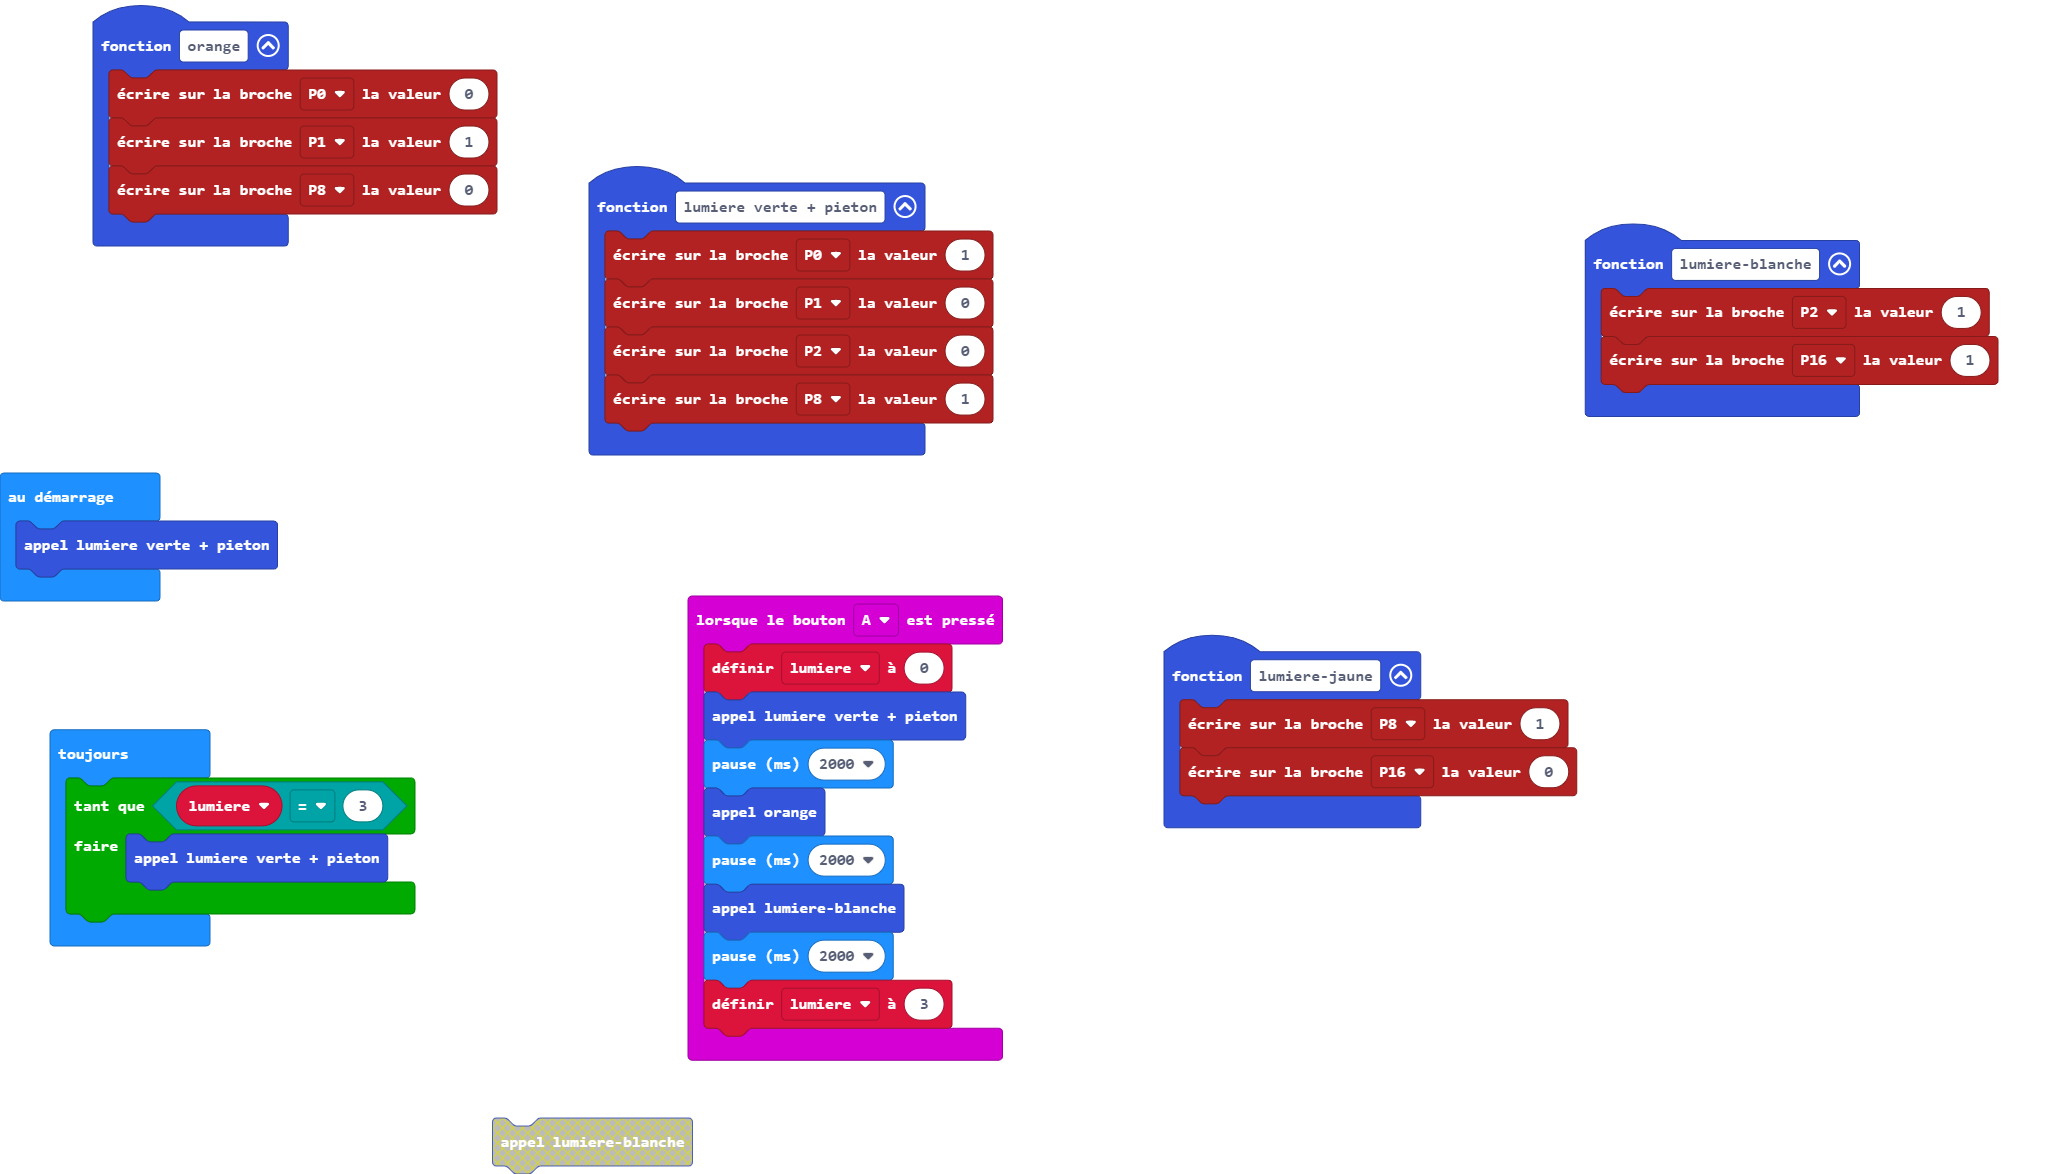
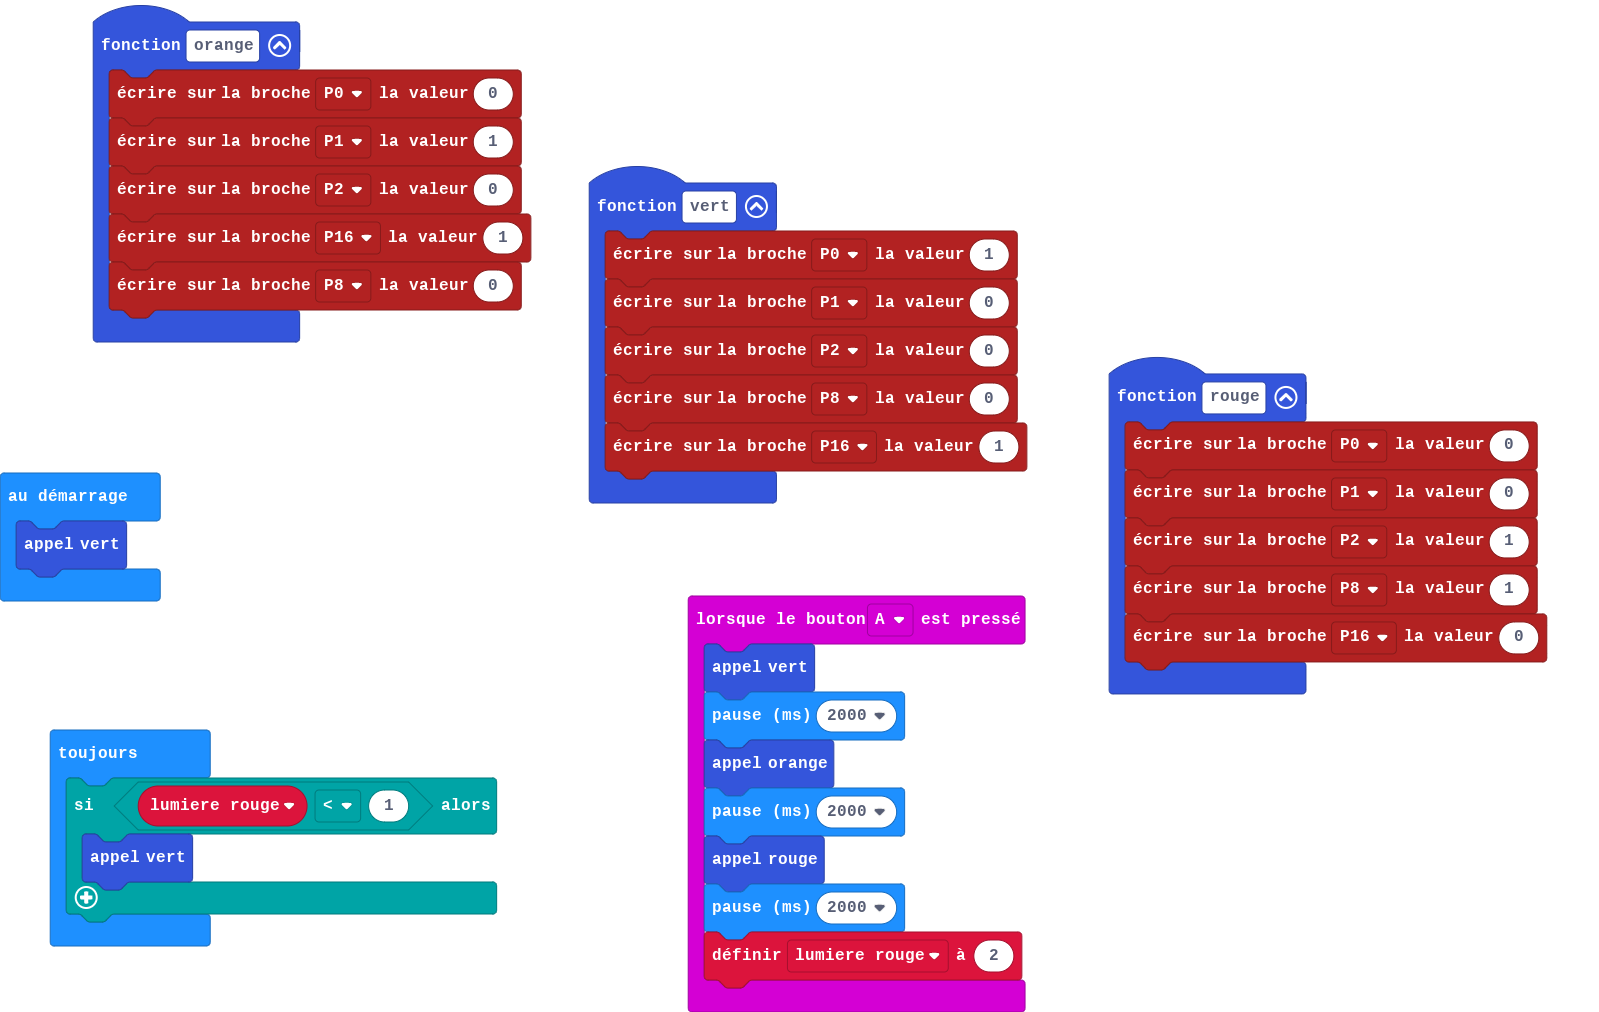
Mise à jour pxt.json, main.blocks, main.ts

diff --git a/main.ts b/main.ts
@@ -1,36 +1,37 @@
-function lumiere_verte__pieton () {
-    pins.digitalWritePin(DigitalPin.P0, 1)
-    pins.digitalWritePin(DigitalPin.P1, 0)
-    pins.digitalWritePin(DigitalPin.P2, 0)
-    pins.digitalWritePin(DigitalPin.P8, 1)
-}
-function lumiereblanche () {
-    pins.digitalWritePin(DigitalPin.P2, 1)
-    pins.digitalWritePin(DigitalPin.P16, 1)
-}
 input.onButtonPressed(Button.A, function () {
-    lumiere = 0
-    lumiere_verte__pieton()
+    vert()
     basic.pause(2000)
     orange()
     basic.pause(2000)
-    lumiereblanche()
+    rouge()
     basic.pause(2000)
-    lumiere = 3
+    lumiere_rouge = 2
 })
 function orange () {
     pins.digitalWritePin(DigitalPin.P0, 0)
     pins.digitalWritePin(DigitalPin.P1, 1)
+    pins.digitalWritePin(DigitalPin.P2, 0)
+    pins.digitalWritePin(DigitalPin.P16, 1)
     pins.digitalWritePin(DigitalPin.P8, 0)
 }
-function lumierejaune () {
+function rouge () {
+    pins.digitalWritePin(DigitalPin.P0, 0)
+    pins.digitalWritePin(DigitalPin.P1, 0)
+    pins.digitalWritePin(DigitalPin.P2, 1)
     pins.digitalWritePin(DigitalPin.P8, 1)
     pins.digitalWritePin(DigitalPin.P16, 0)
 }
-let lumiere = 0
-lumiere_verte__pieton()
+function vert () {
+    pins.digitalWritePin(DigitalPin.P0, 1)
+    pins.digitalWritePin(DigitalPin.P1, 0)
+    pins.digitalWritePin(DigitalPin.P2, 0)
+    pins.digitalWritePin(DigitalPin.P8, 0)
+    pins.digitalWritePin(DigitalPin.P16, 1)
+}
+let lumiere_rouge = 0
+vert()
 basic.forever(function () {
-    while (lumiere == 3) {
-        lumiere_verte__pieton()
+    if (lumiere_rouge < 1) {
+        vert()
     }
 })
